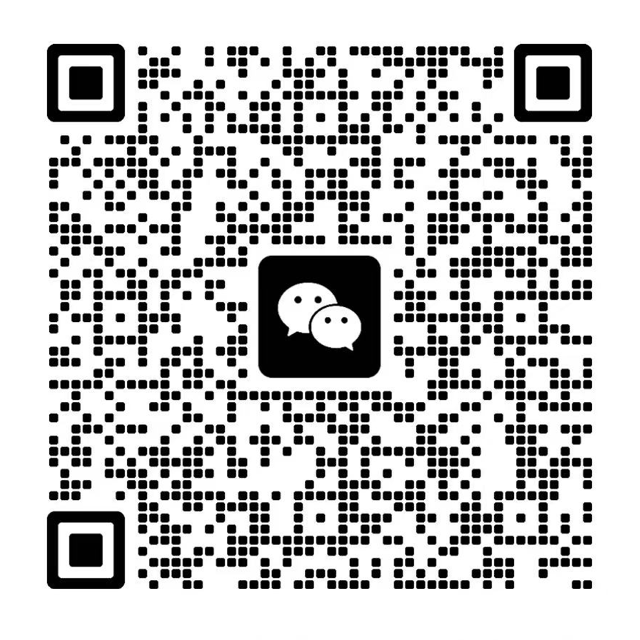
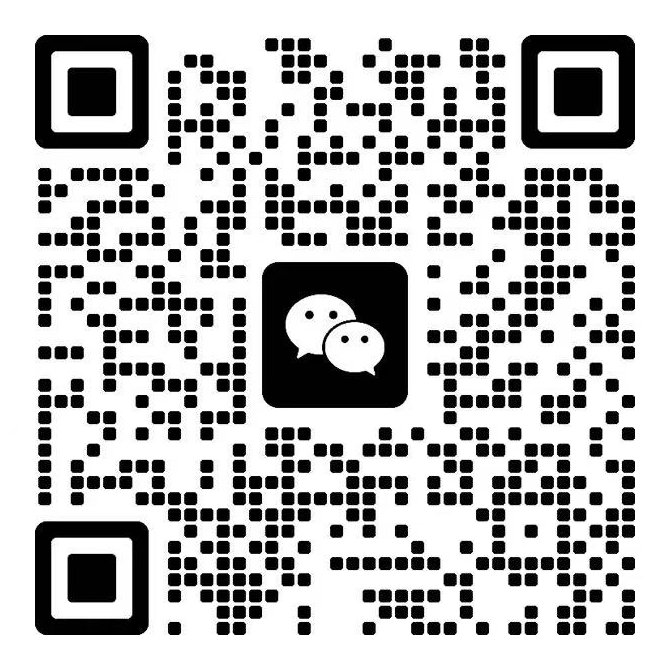
docs(readme): 微信二维码改为作者个人微信(长期有效)

diff --git a/README.md b/README.md
@@ -33,8 +33,7 @@
 
 <img src="apps/web/public/wechat-group-qr.png" alt="微信交流群二维码" width="220" />
 
-扫码加入微信交流群，一起交流使用与开发问题<br/>
-*（群二维码定期更新，如已失效欢迎提 issue 提醒更换）*
+扫码添加作者微信（Cizai_），交流使用与开发问题，并拉你进交流群
 
 </div>
 
